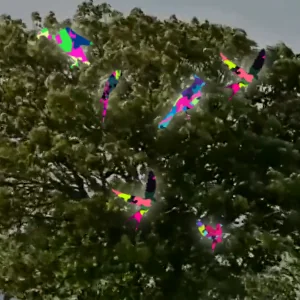
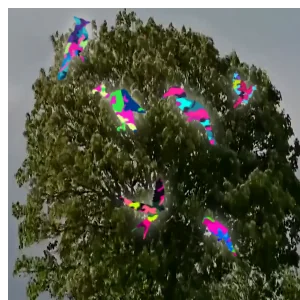
a

diff --git a/src/pages/2026/26-07/26-07-30/Clock.module.css b/src/pages/2026/26-07/26-07-30/Clock.module.css
@@ -15,7 +15,7 @@
 .backgroundVideo {
   width: 100%;
   height: 100%;
-  object-fit: cover;
+  object-fit: fill;
   filter: brightness(0.7) contrast(1.1);
 }
 
